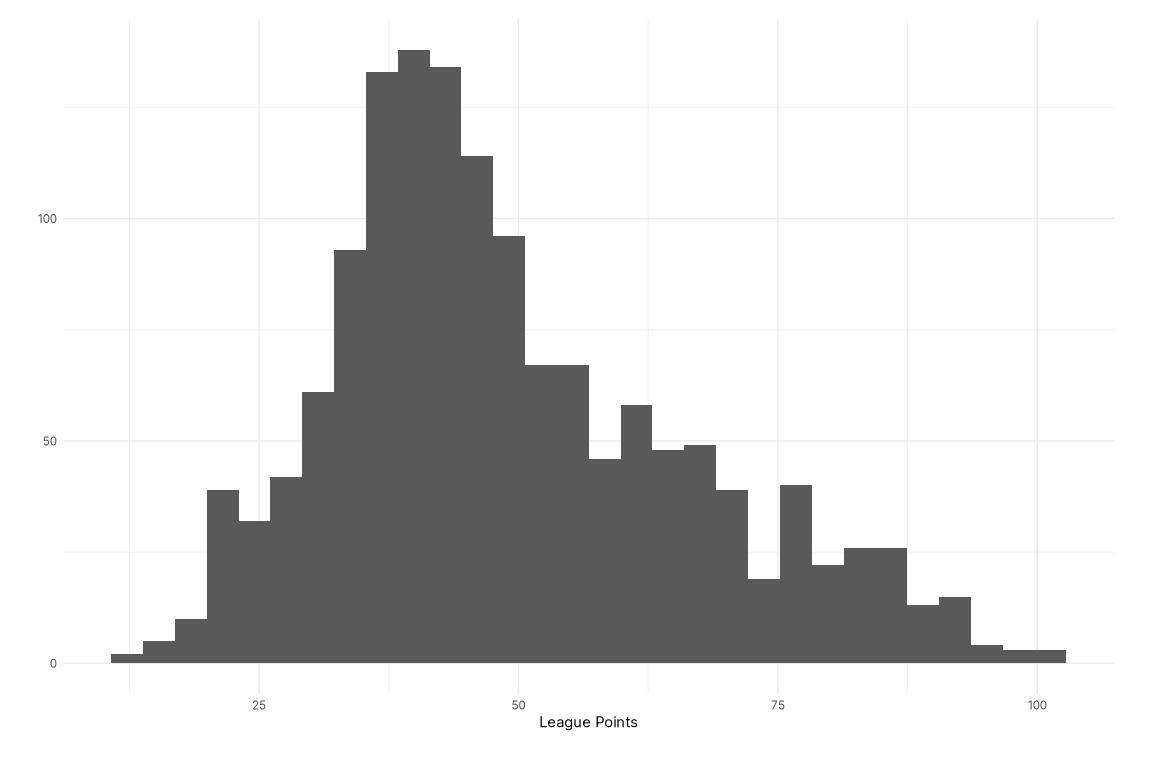
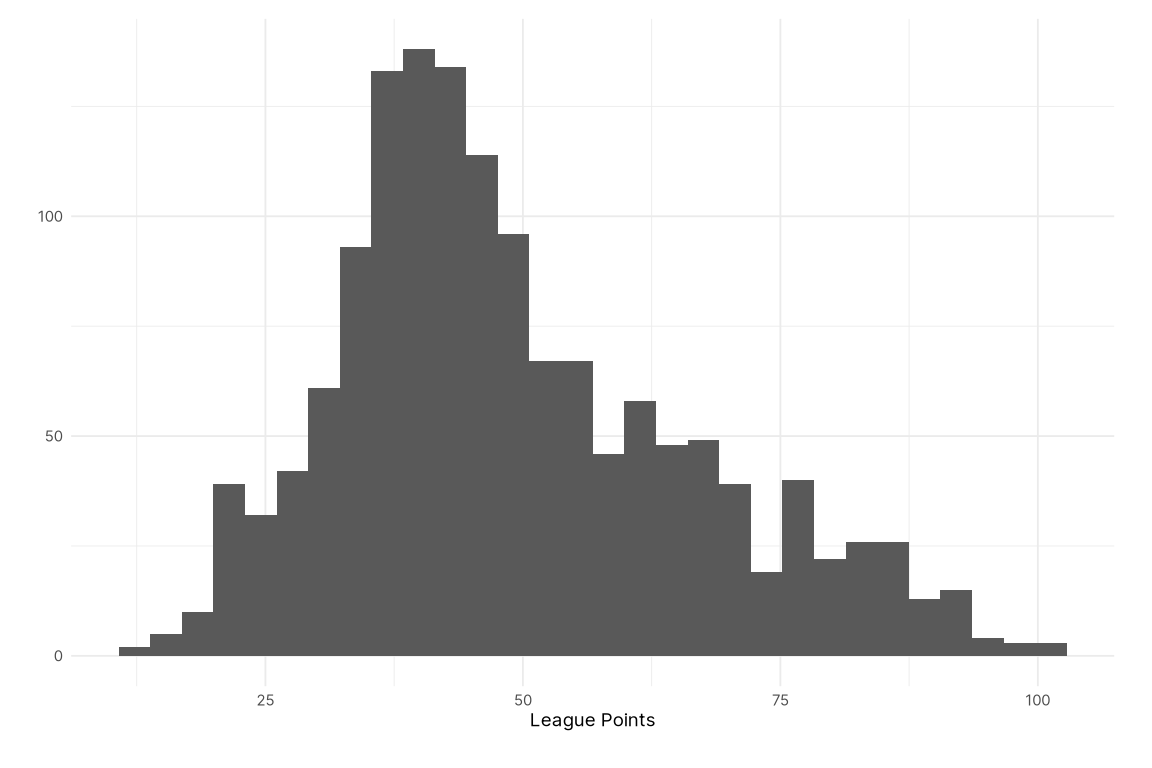
Suppress plot messages
Set warning and message to false so that ggplot doesn't output superfluous messages about plot specs.

diff --git a/output/01-exploratory_data_analysis.md b/output/01-exploratory_data_analysis.md
@@ -14,8 +14,6 @@ club_resources %>%
   labs(x = "League Points", y = NULL)
 ```
 
-    `stat_bin()` using `bins = 30`. Pick better value with `binwidth`.
-
 ![](01-exploratory_data_analysis_files/figure-gfm/pts-1.png)
 
 The distribution of points appears to be relatively normal with a longer
@@ -36,8 +34,6 @@ club_resources %>%
   scale_fill_viridis_d(guide = guide_legend(nrow = 1)) +
   labs(x = "League Points", y = NULL)
 ```
-
-    `stat_bin()` using `bins = 30`. Pick better value with `binwidth`.
 
 ![](01-exploratory_data_analysis_files/figure-gfm/league-pts-1.png)
 
@@ -66,22 +62,6 @@ club_resources %>%
   facet_wrap(~ league) +
   labs(x = "League Points", y = NULL)
 ```
-
-    Picking joint bandwidth of 6.88
-
-    Picking joint bandwidth of 6.52
-
-    Picking joint bandwidth of 7.04
-
-    Picking joint bandwidth of 7.42
-
-    Picking joint bandwidth of 6.47
-
-    Picking joint bandwidth of 8.65
-
-    Picking joint bandwidth of 6.82
-
-    Picking joint bandwidth of 8.75
 
 ![](01-exploratory_data_analysis_files/figure-gfm/season-pts-1.png)
 
@@ -176,8 +156,6 @@ club_resources %>%
   labs(x = NULL, y = NULL)
 ```
 
-    `geom_smooth()` using formula 'y ~ x'
-
 ![](01-exploratory_data_analysis_files/figure-gfm/transfer-spending-1.png)
 
 # Squad Depth
@@ -194,8 +172,6 @@ club_resources %>%
   labs(x = "League Points", y = "Players")
 ```
 
-    `geom_smooth()` using formula 'y ~ x'
-
 ![](01-exploratory_data_analysis_files/figure-gfm/squad-size-1.png)
 
 ## The Relationship Between Squad Depth & Points
@@ -209,8 +185,6 @@ club_resources %>%
   labs(x = "League Points", y = "Players")
 ```
 
-    `geom_smooth()` using formula 'y ~ x'
-
 ![](01-exploratory_data_analysis_files/figure-gfm/squad-size-pts-1.png)
 
 ``` r
@@ -222,8 +196,6 @@ club_resources %>%
   facet_wrap(~ league, scales = "free", nrow = 2) +
   labs(x = "League Points", y = "Players")
 ```
-
-    `geom_smooth()` using formula 'y ~ x'
 
 ![](01-exploratory_data_analysis_files/figure-gfm/squad-size-pts-2.png)
 
@@ -248,8 +220,6 @@ club_resources %>%
   labs(x = "League Points", y = "Squad Days Injured")
 ```
 
-    `geom_smooth()` using formula 'y ~ x'
-
 ![](01-exploratory_data_analysis_files/figure-gfm/injuries-1.png)
 
 # Squad Market Values
@@ -266,9 +236,6 @@ club_resources %>%
     ) +
   labs(x = NULL, y = "Squad Market Value")
 ```
-
-    `summarise()` has grouped output by 'league'. You can override using the
-    `.groups` argument.
 
 ![](01-exploratory_data_analysis_files/figure-gfm/squad-values-1.png)
 
@@ -288,20 +255,6 @@ club_resources %>%
   facet_wrap(~ league, scales = "free", nrow = 2) +
   labs(x = NULL, y = NULL)
 ```
-
-    Picking joint bandwidth of 49200000
-
-    Picking joint bandwidth of 12200000
-
-    Picking joint bandwidth of 60700000
-
-    Picking joint bandwidth of 35500000
-
-    Picking joint bandwidth of 1.12e+08
-
-    Picking joint bandwidth of 1.2e+07
-
-    Picking joint bandwidth of 69500000
 
 ![](01-exploratory_data_analysis_files/figure-gfm/values-over-time-1.png)
 
@@ -338,8 +291,6 @@ club_resources %>%
   labs(x = "League Points", y = "Squad Market Value")
 ```
 
-    `geom_smooth()` using formula 'y ~ x'
-
 ![](01-exploratory_data_analysis_files/figure-gfm/pts-and-values-1.png)
 
 ``` r
@@ -354,7 +305,5 @@ club_resources %>%
   facet_wrap(~ league, scales = "free", nrow = 2) +
   labs(x = "League Points", y = "Squad Market Value")
 ```
-
-    `geom_smooth()` using formula 'y ~ x'
 
 ![](01-exploratory_data_analysis_files/figure-gfm/pts-and-values-2.png)
